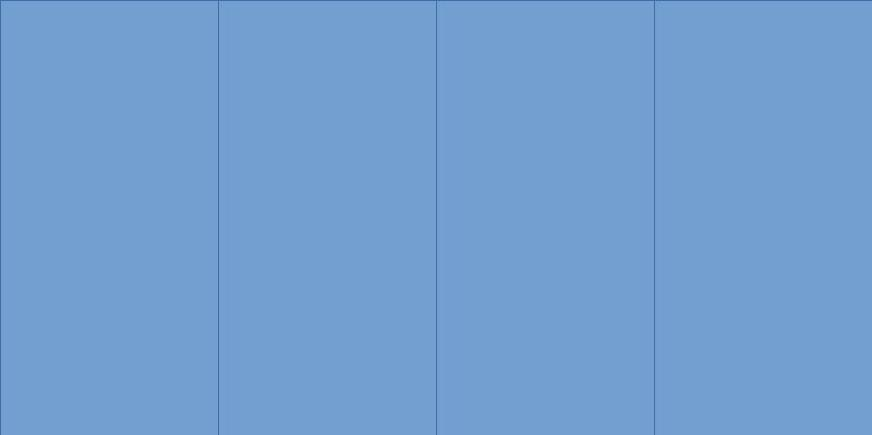
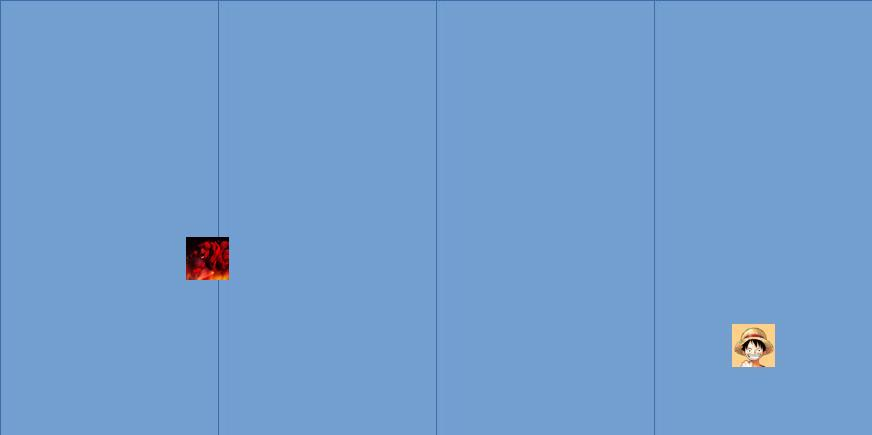
Global_map was updated

Changed region(s): [[0.1858, 0.5379, 0.2787, 0.6575], [0.836, 0.7172, 0.8979, 0.8667]]

diff --git a/map.py b/map.py
@@ -71,20 +71,16 @@ def generate_coordinates(num_points):
         local_coordinates.append({"X_coordinate": x_coordinate_3, "Y_coordinate": y_coordinate_3})
         local_coordinates.append({"X_coordinate": x_coordinate_4, "Y_coordinate": y_coordinate_4})
         
+        #In this part coordinates for the boundries are being gnerated 
+
         
-        coordinates.update(local_coordinates)
-    return coordinates
-
-        # boundries = []
 
 
 
 
 
-
-
-        # collection = rc
-        # collection.update_one({ "_id": "local_locations"}, {"$push": {"locations": local_coordinates}})
+        collection = rc
+        collection.update_one({ "_id": "local_locations"}, {"$push": {"locations": local_coordinates}})
 
 
 
@@ -95,7 +91,7 @@ def generate_coordinates(num_points):
 
 
 
-def design_map(server_id,server_name):
+def design_map(server_id):
     '''In this funtion i am trying to generate a global map for the game so that i can vizualize things in a better way and also to make the game more interesting.
 ______________________________________________________________________________________________
 so far in this funtion i have generated a image for a map on icone but it dosent look that well so and the coordinates of the map are just 500X250 so i am planning to make a bigger whole map and paste the icons on it insted of making 2 sets of coordinates for the game so that i can generate a map for the game.'''
@@ -115,9 +111,9 @@ so far in this funtion i have generated a image for a map on icone but it dosent
                         # nearest_local = server_info['server_coordinate']
 
                         # Open the first image
-                        image1 = Image.open("E:\\onepiece_bot\\IMAGES\\clear_extra.jpg")
+                        image1 = Image.open("E:\\one_piece_bot\\IMAGES\\clear_extra.jpg")
 
-                        image11 = Image.open("E:\onepiece_bot\IMAGES\clear.jpg")
+                        image11 = Image.open("E:\one_piece_bot\IMAGES\clear.jpg")
 
                         # Download the server icon image from the URL
                         response = requests.get(server_pfp_url)
@@ -138,6 +134,17 @@ so far in this funtion i have generated a image for a map on icone but it dosent
 
                         # Paste the server icon image onto the map
                         image1.paste(server_icon, (icon_x_position, icon_y_position), server_icon)
+                        image1.save(f"E:\\one_piece_bot\\IMAGES\\clear_extra.jpg")
+    except Exception as e:
+                print(f"An error occurred while generating the map: {e}")
+
+
+
+'''                        
+---------------------------------------------------------------------------------------------
+This was a previous code for generating outer boundreis of the game as for now i am not focusing on it so its not being used
+----------------------------------------------------------------------------------------------
+'''
 
                         # Add lines with unique colors and print dot numbers
                         # draw = ImageDraw.Draw(image1)
@@ -173,13 +180,10 @@ so far in this funtion i have generated a image for a map on icone but it dosent
                         #     print(f"Line from dot{start} to dot{end}")
 
                         # Save the modified image
-                        image1.save(f"E:\\onepiece_bot\\IMAGES\\global_map.png")
 
 
 
 
-    except Exception as e:
-                print(f"An error occurred while generating the map: {e}")
 
 
 

diff --git a/Cmds/Start.py b/Cmds/Start.py
@@ -13,17 +13,14 @@ class start(commands.Cog):
         await ctx.send('I am working fine')
 
 
-    
-    @commands.command()
-    async def mapdata(self,ctx):
-        island(server_id=ctx.guild.id)
-        await ctx.send('Inserted successfully')        
+
+    # @commands.command()
+    # async def mapdata(self,ctx):
+    #     island(server_id=ctx.guild.id)
+    #     await ctx.send('Inserted successfully')        
     
 
-    @commands.command()
-    async def map_image(self,ctx):
-        design_map(server_id=ctx.guild.id,server_name=ctx.guild.name)
-        await ctx.send("Image has been generated")
+
 
 
 
@@ -40,8 +37,8 @@ class start(commands.Cog):
     async def test(self, ctx):
         ''' In this at moment we are trying to import  the server details and store it in mongo db collection '''
         coordinatess = rc.find_one({"_id": "local_locations"})
-        coordinates = coordinatess['locations'][-1]
-    
+        coordinates = coordinatess['locations'][0]
+
         # Construct the server_info dictionary
         server_info = {
             "_id": ctx.guild.id,
@@ -56,28 +53,35 @@ class start(commands.Cog):
 
         # # Update or insert server information in the database
         collection_name.insert_one(server_info)
-        collection_name.update_one({"_id": "local_locations"}, {"$pop": {"locations": -1}})
+        rc.update_one({"_id": "local_locations"}, {"$pop": {"locations": -1}})
         
         
         await ctx.send('Inserted successfully')
-
-
-
-
 
 
 
     @commands.command()
-    async def mapt(self , ctx):
-        map_matrix()
-        await ctx.send('Inserted successfully')
+    async def map_test(self,ctx):
+        design_map(server_id=ctx.guild.id)
+        await ctx.send("Image has been generated")
 
-        
+
+
+
+
+
+    # @commands.command()
+    # async def mapt(self , ctx):
+    #     map_matrix()
+    #     await ctx.send('Inserted successfully')
+
+
 
     @commands.command()
     async def generate_coordinates(self,ctx,num_points):
         generate_coordinates(int(num_points))
-        await ctx.send(f"{num_points} local location added")
+        await ctx.send('Inserted successfully')
+        
 
 
 async def setup(bot):

diff --git a/main.py b/main.py
@@ -2,6 +2,7 @@ import tracemalloc
 import discord 
 from discord.ext import commands
 import Settings
+from database import reserved_collection_name as rc , collection_name
 
 # Set up the logger
 logger = Settings.logging.getLogger("bot")
@@ -33,6 +34,24 @@ def run():
                 await ctx.send(f'Done {cmd}ing')
             except Exception as e:
                 await ctx.send(f'Error: {e}')
+    @bot.event
+    async def on_guild_join(guild):
+        coordinatess = rc.find_one({"_id": "local_locations"})
+        coordinates = coordinatess['locations'][0]
+
+        # Construct the server_info dictionary
+        server_info = {
+            "_id": guild.id,
+            "guild_id": guild.id,
+            "guild_name": guild.name,
+            "guild_pfp": str(guild.icon.url) if guild.icon else None,
+            "owner_id": guild.owner_id,
+            "Coordinates":coordinates
+            # Add other fields if needed
+        }
+    
+        collection_name.insert_one(server_info)
+        rc.update_one({"_id": "local_locations"}, {"$pop": {"locations": -1}})   
 
     # Start bot with tracemalloc for memory tracking
     tracemalloc.start()

diff --git a/Previous_extracodes.py/extra_map.py b/Previous_extracodes.py/extra_map.py
@@ -169,7 +169,7 @@
 # from PIL import Image
 
 # # Open the images you want to merge and store them in a list
-# images = [Image.open("E:\\onepiece_bot\\IMAGES\\clear.jpg"), Image.open("E:\\onepiece_bot\\IMAGES\\clear - Copy.jpg"), Image.open("E:\\onepiece_bot\\IMAGES\\clear - Copy (2).jpg"), Image.open("E:\\onepiece_bot\\IMAGES\\clear - Copy (3).jpg")]
+# images = [Image.open("E:\one_piece_bot\IMAGES\clear.jpg"), Image.open("E:\\one_piece_bot\\IMAGES\\clear - Copy.jpg"), Image.open("E:\\one_piece_bot\\IMAGES\\clear - Copy (2).jpg"), Image.open("E:\\one_piece_bot\\IMAGES\\clear - Copy (3).jpg")]
 
 # # Calculate the total width and maximum height of the final image
 # total_width = 0
@@ -190,4 +190,4 @@
 #     x_offset += image.size[0]
 
 # # Save the new image
-# new_image.save("E:\\onepiece_bot\\IMAGES\\clear_extra.jpg")
+# new_image.save("E:\\one_piece_bot\\IMAGES\\clear_extra.jpg")
